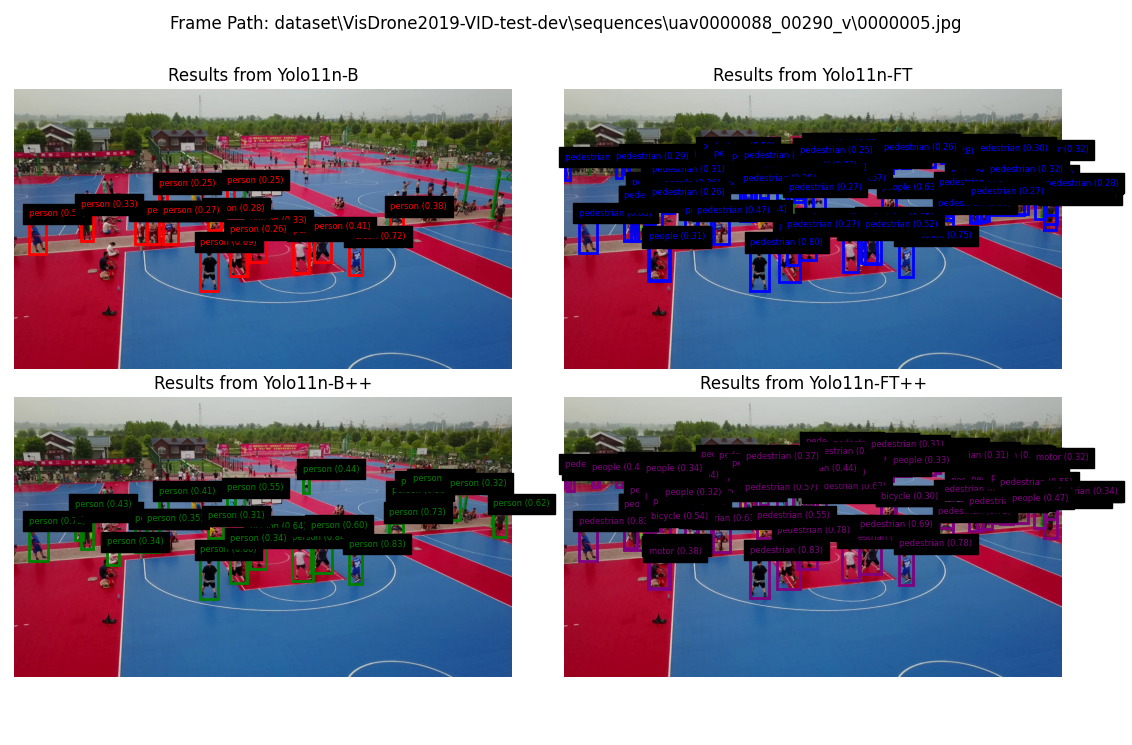
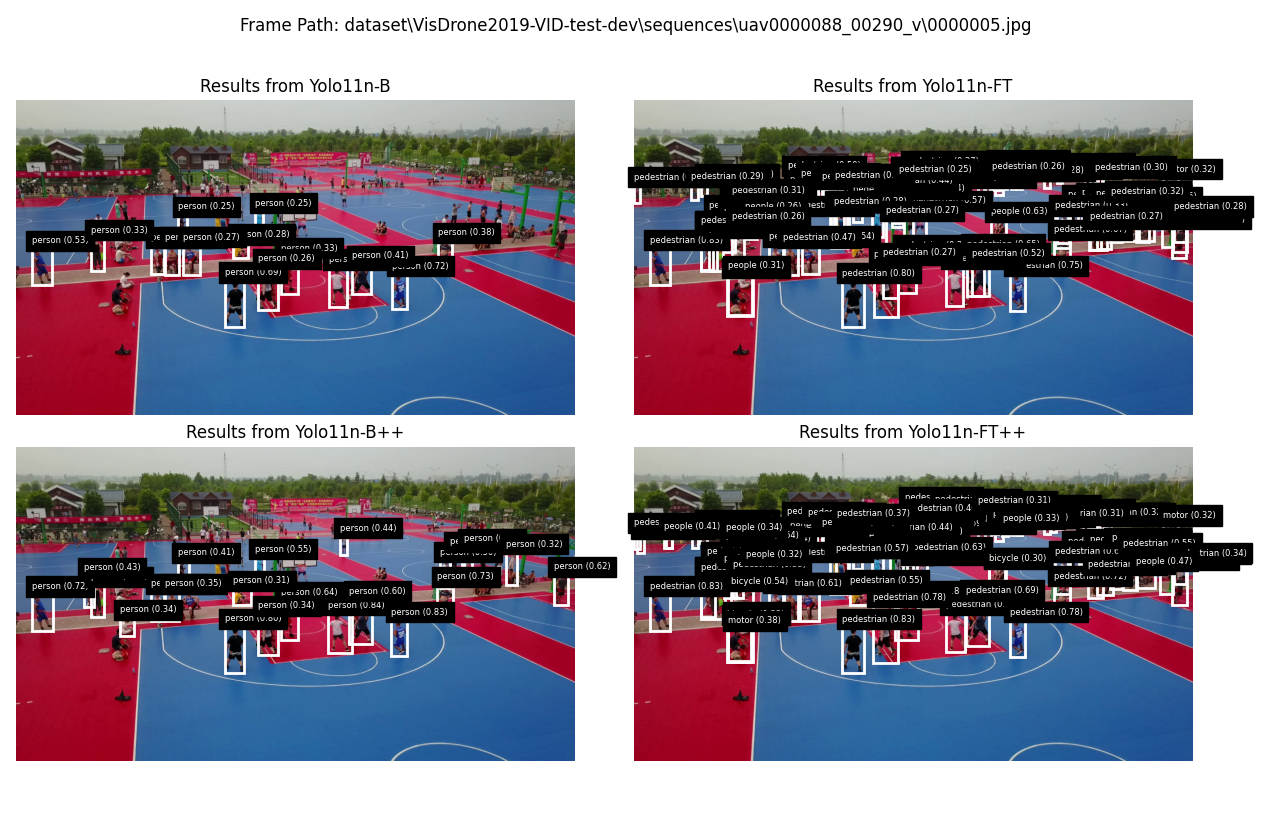
color change

diff --git a/src/visualize_bounding_boxes.py b/src/visualize_bounding_boxes.py
@@ -109,7 +109,7 @@ if __name__ == "__main__":
     labels = [f"{model_name}".capitalize()+'-B', f"{model_name}".capitalize()+'-FT', f"{model_name}".capitalize()+'-B++', f"{model_name}".capitalize()+'-FT++']
 
     # Colors for each model's bounding boxes
-    colors = ['red', 'blue', 'green', 'purple']
+    colors = ['white', 'white', 'white', 'white']
 
     # Call the function to plot
     plot_yolo_results_separately_with_classes(image_path, model_results, labels, colors)
